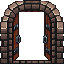
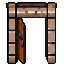
Install approved rectangular animated doors and small frontal wall torches

diff --git a/game.js b/game.js
@@ -748,7 +748,7 @@
       if (!this.wallCells.has(`${tileX},${tileY}`)) return;
       if (this.wallTorches.some((torch) => torch.getData("cell") === `${tileX},${tileY}`)) return;
       const torch = this.add.sprite(tileX * TILE + 8, (tileY + 1) * TILE - 2, ASSETS.torch[0])
-        .setDisplaySize(24, 24).setOrigin(0.5, 1).setDepth(tileY * TILE + 10)
+        .setDisplaySize(18, 18).setOrigin(0.5, 1).setDepth(tileY * TILE + 10)
         .setData("cell", `${tileX},${tileY}`);
       torch.play({ key: "ash-torch-burn", startFrame: (tileX + tileY) % 4 });
       this.wallTorches.push(torch);
@@ -872,11 +872,8 @@
             this.highWallFrame(BOSS_GATE_WALL_FRAME),
             "north"
           );
-          this.add.image(
-            rule.x * TILE + 8,
-            (rule.y + 1) * TILE,
-            gateFrameKey
-          ).setOrigin(0.5, 1).setDepth(rule.y * TILE + 8);
+          // The new rectangular sprite contains its own straight stone jambs.
+          // Keep adjacent brickwork flush; do not overlay the old curved arch.
           return;
         }
         const isTall = rule.facing !== "side";

diff --git a/tests/game-static.test.js b/tests/game-static.test.js
@@ -95,9 +95,9 @@ if (game.includes("startFollow(this.player, true") || game.includes("setRoundPix
 }
 if (!game.includes("fixedStep: false")) throw new Error("Fizika nav piesaistīta ekrāna kadru ritmam");
 if (!game.includes("roundPixels: false")) throw new Error("Globālā pikseļu noapaļošana nav izslēgta");
-if (!html.includes('<script src="map-rules.js?v=54"></script>')) throw new Error("HTML neielādē jaunākos kartes noteikumus");
+if (!html.includes('<script src="map-rules.js?v=55"></script>')) throw new Error("HTML neielādē jaunākos kartes noteikumus");
 if (!html.includes('<script src="progression.js?v=28"></script>')) throw new Error("HTML neielādē progresa sistēmu");
-if (!html.includes('<script src="game.js?v=54"></script>')) throw new Error("HTML neielādē jaunāko spēles kodu");
+if (!html.includes('<script src="game.js?v=55"></script>')) throw new Error("HTML neielādē jaunāko spēles kodu");
 if (html.includes('id="minimap-label"') || html.includes('KARTE · SIENAS')) {
   throw new Error("Minikartē joprojām redzams sienu teksts");
 }

diff --git a/index.html b/index.html
@@ -164,8 +164,8 @@
     </main>
 
     <script src="vendor/phaser.min.js"></script>
-    <script src="map-rules.js?v=54"></script>
+    <script src="map-rules.js?v=55"></script>
     <script src="progression.js?v=28"></script>
-    <script src="game.js?v=54"></script>
+    <script src="game.js?v=55"></script>
   </body>
 </html>
